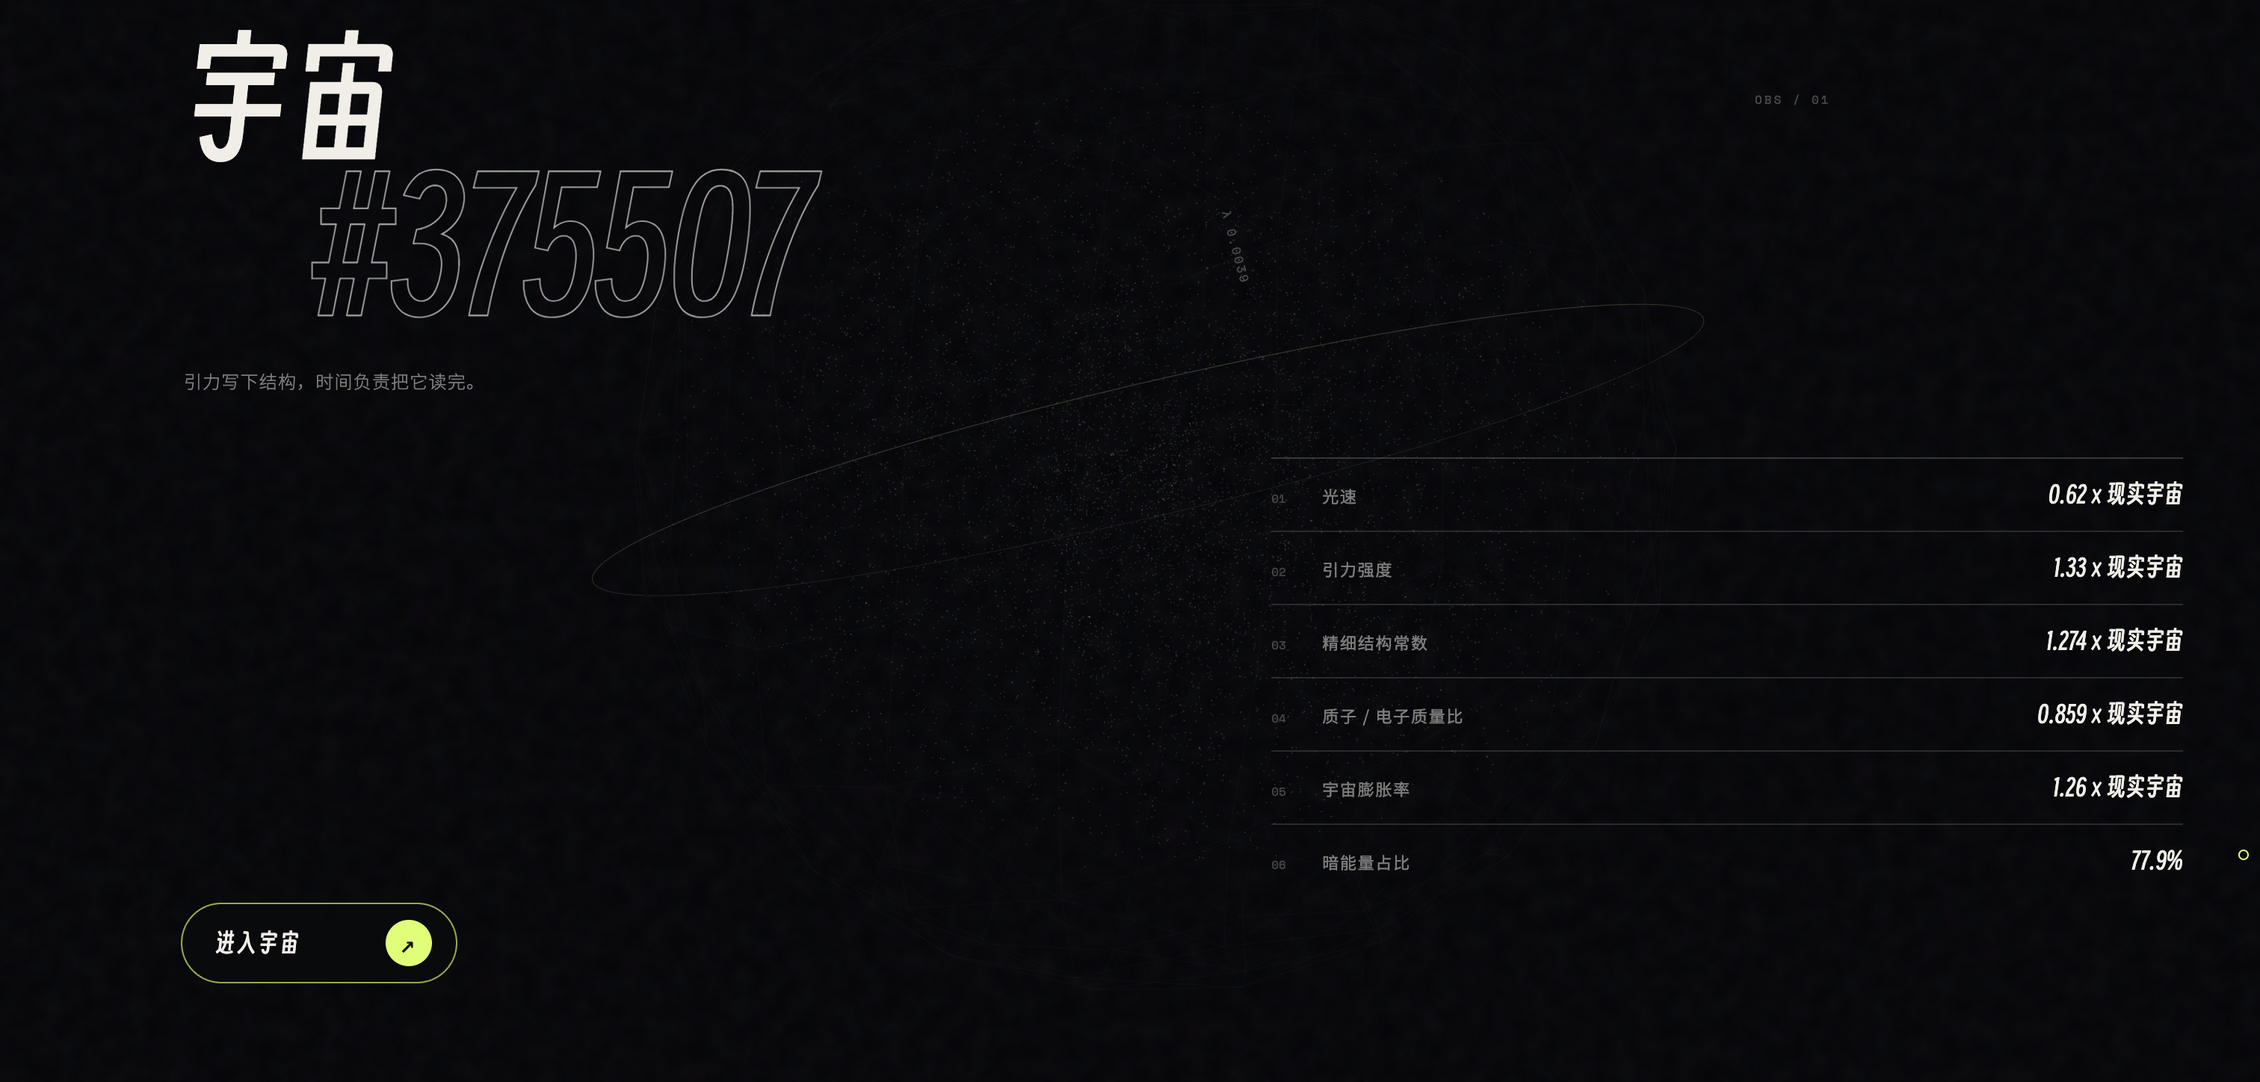
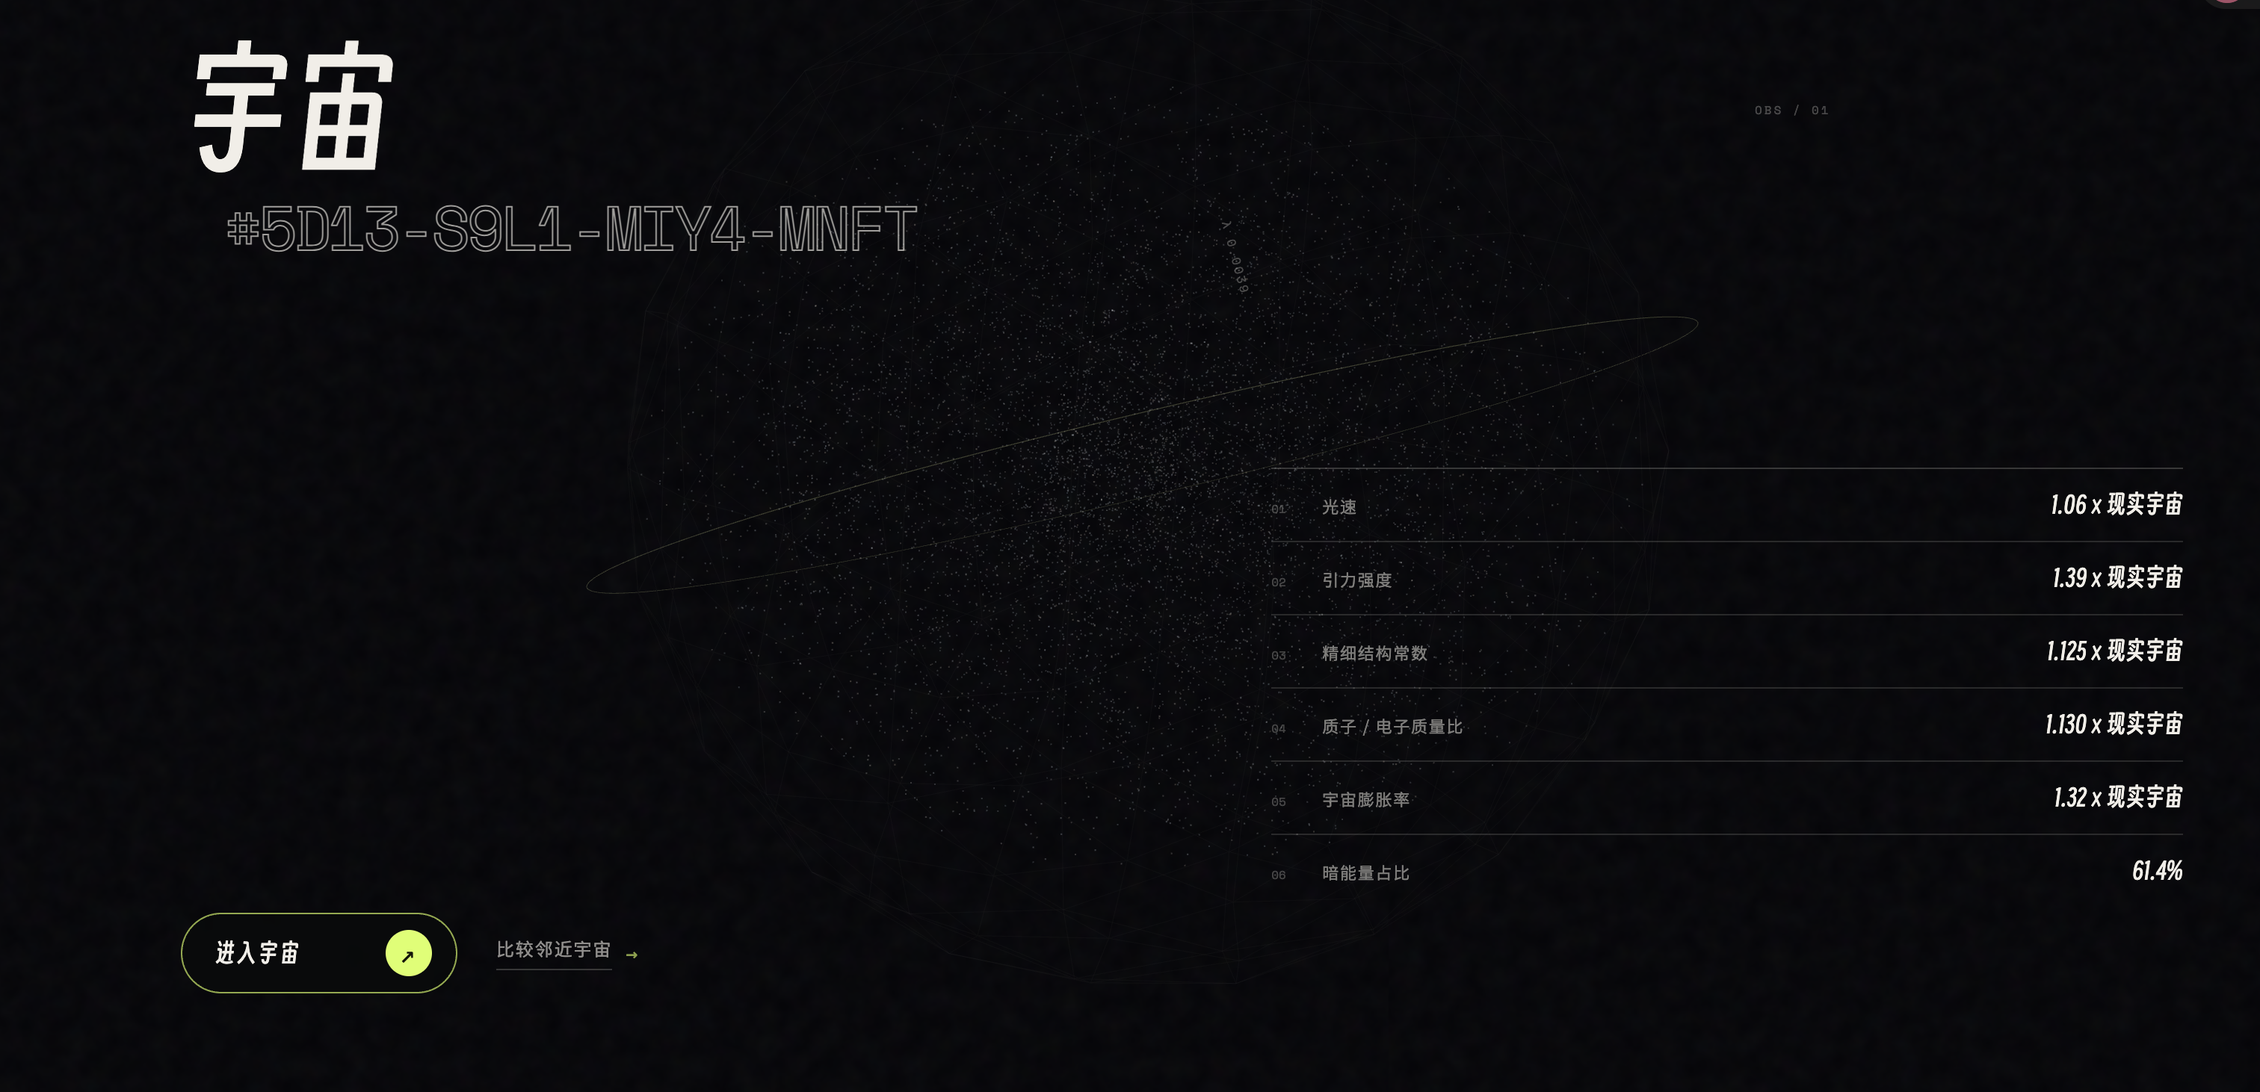
chore: 更新文档

diff --git a/dist/index.html b/dist/index.html
@@ -5,7 +5,7 @@
     <meta name="viewport" content="width=device-width, initial-scale=1.0" />
     <meta name="theme-color" content="#050508" />
     <meta name="description" content="每一次刷新，都会诞生一个独一无二的宇宙。" />
-    <title>随机宇宙发生器</title>
+    <title>random-universe</title>
     <script type="module" crossorigin src="/assets/index-g4dwoULP.js"></script>
     <link rel="modulepreload" crossorigin href="/assets/three-core-DmuWkeyr.js">
     <link rel="modulepreload" crossorigin href="/assets/technology-tree-CImIBHa4.js">
@@ -22,9 +22,9 @@
     <div class="grain" aria-hidden="true"></div>
 
     <header class="site-header">
-      <a class="brand" href="#" aria-label="随机宇宙发生器首页">
+      <a class="brand" href="#" aria-label="random-universe 首页">
         <span class="brand-mark">R<span>U</span></span>
-        <span class="brand-name">随机宇宙<br />发生器</span>
+        <span class="brand-name">random-universe</span>
       </a>
 
       <div class="system-state">

diff --git a/index.html b/index.html
@@ -5,7 +5,7 @@
     <meta name="viewport" content="width=device-width, initial-scale=1.0" />
     <meta name="theme-color" content="#050508" />
     <meta name="description" content="每一次刷新，都会诞生一个独一无二的宇宙。" />
-    <title>随机宇宙发生器</title>
+    <title>random-universe</title>
   </head>
   <body>
     <canvas
@@ -18,9 +18,9 @@
     <div class="grain" aria-hidden="true"></div>
 
     <header class="site-header">
-      <a class="brand" href="#" aria-label="随机宇宙发生器首页">
+      <a class="brand" href="#" aria-label="random-universe 首页">
         <span class="brand-mark">R<span>U</span></span>
-        <span class="brand-name">随机宇宙<br />发生器</span>
+        <span class="brand-name">random-universe</span>
       </a>
 
       <div class="system-state">

diff --git a/README.md b/README.md
@@ -1,6 +1,6 @@
 # 随机宇宙发生器
 
-一个运行在浏览器中的交互式宇宙生成与演化模拟器。输入一个 16 位种子，程序会生成一套相互关联的物理参数、一种星系形态、一段从炽热大爆炸到远未来结局的宇宙史，以及在其中诞生、扩张、结盟、冲突和消亡的文明。
+一个运行在浏览器中的交互式宇宙生成与演化模拟器。每个宇宙由一个 16 位种子确定；程序会据此生成一套相互关联的物理参数、一种星系形态、一段从炽热大爆炸到远未来结局的宇宙史，以及在其中诞生、扩张、结盟、冲突和消亡的文明。
 
 ![随机宇宙发生器的创世界面](readme-photo/001.png)
 
@@ -26,7 +26,7 @@
 - **条件宇宙结局**：宇宙可能走向渐近热寂、大撕裂、大坍缩，或被更早发生的真空衰变覆盖。
 - **15 组天体事件家族**：每类事件都有种子化参数模型、发生次数、空间范围、残骸和文明后果，而不只是固定动画。
 - **文明演化**：5–15 个初始文明样本在 720 个宜居节点上经历生物圈演化、殖民、接触、过滤器、迁徙、巨型工程、考古、冲突和衰亡，并可能产生分裂继承者、提升物种、相对论迟归者、跨星系殖民地或黑洞能源文明。
-- **文明编年史与观测者模式**：点击任意文明可查看其完整因果事件链、生命演化与能源等级；切换到该文明的视角后，只显示已经进入其真实空间光锥的信息。
+- **文明编年史与观测者模式**：点击任意文明可查看其完整因果事件链、生命演化与能源等级；切换到该文明的视角后，尚未进入其空间光锥的事件会被灰化并禁止交互，播报与观测数据则按实际信号延迟更新。
 - **文明内部模型、经济与技术树**：人口、物质、能源、算力、生物承载力、物流、治理、科研和稳定度共同演化；技术按前置条件从行星工业推进到宇宙逃逸，并支付资源与稳定成本。
 - **局部星系群**：每个种子生成 4–6 个确定性伴星系；成功的跨星系迁徙会在三维地图上建立真实目标、外域人口和可见航线。
 - **观测不确定性与因果图**：编年史同时展示模拟真值、文明实际收到的延迟信号和玩家外推区间；事件链可在缩放、拖动的节点图中浏览并跳转。
@@ -44,6 +44,58 @@
 ### 文明扩张与阵营关系
 
 ![恒星时代中的文明疆域与阵营面板](readme-photo/003.png)
+
+### 文明事件图鉴
+
+下面的事件画面来自时间轴中的文明演化层。除“复杂生物圈形成”采用天体生物学约化模型外，其余事件均属于用于探索文明选择与长期后果的科幻假设；同一事件的最终结果会随种子、文明状态和技术前置条件改变。
+
+#### 母宇宙逃逸工程
+
+![母宇宙逃逸工程形成的双向光锥结构](readme-photo/planet-001.png)
+
+双向线框光锥代表文明试图越过母宇宙因果边界。只有完成黑洞采能等前置技术的文明，才可能尝试人造婴儿宇宙、真空工程、时空捷径或因果闭环计算；成功后，母宇宙只能记录该文明从可观测范围中消失，失败则会造成长期资源赤字、技术倒退与社会凝聚力下降。
+
+#### 恒星巨构工程
+
+![恒星巨构工程环绕恒星展开多层采能结构](readme-photo/planet-002.png)
+
+多层环状结构表现分布式恒星采能群逐步包围母恒星。稳定运行时，文明获得恒星尺度能源，疆域恢复与防御能力随之增强；若轨道控制失稳，采能单元会发生碎片级联并波及多个恒星域。
+
+#### 知识方舟封存
+
+![知识方舟以多面体档案核心保存文明资料](readme-photo/planet-003.png)
+
+发光多面体是分散式档案网络的视觉化身，其中封存生物谱系、工程知识与历史记录。方舟不会直接阻止文明衰亡，但能在疆域完全丧失后、且恒星能源窗口仍然开放时，提供一次降级复兴的机会。
+
+#### 行星地球化工程
+
+![行星地球化工程重塑大气、海洋与生物圈](readme-photo/planet-004.png)
+
+绿色线框行星与扩散中的大气光晕表示持续多个世代的环境改造。工程成功会建立自维持生物圈，提高宜居前沿、基础设施和人口承载力；若生态循环进入不可逆失衡，边境殖民地会受损并被迫撤离。
+
+#### 相对论殖民分化
+
+![相对论远征航迹在恒星间形成时间分叉](readme-photo/planet-005.png)
+
+分离的远征航迹象征高速舰队与母文明之间不断扩大的时间差。远征队归来时，舰上社会已经经历独立历史，并作为“迟归者”继承部分恒星域；它与母文明保留共同起源，却通常维持疏远而中立的关系。
+
+#### 复杂生物圈形成
+
+![复杂生物圈从多层生态阶段逐步形成](readme-photo/planet-006.png)
+
+层层展开的球状网络对应“原始生命—生态扩张—复杂多细胞生命—技术物种”的演化链，部分种子还会插入雪球期、大灭绝、海洋酸化或恒星耀斑期等挫折。它是一条可回放的母世界生命史，用于连接宇宙条件与文明诞生，不代表对现实生命演化的精确预测。
+
+#### 先驱遗迹唤醒
+
+![先驱遗迹以休眠的几何结构悬浮在恒星域中](readme-photo/planet-007.png)
+
+不规则几何体表示早于当前文明纪元的休眠结构。成功解码可带来跨代工程技术跃迁；若触发遗迹的防御协议，解码站与邻近航路将受损，文明的外部可见度也可能因此上升。
+
+#### 数字意识迁移
+
+![数字意识迁移进入由立方体与内层晶格组成的计算基质](readme-photo/planet-008.png)
+
+外层立方体与内层晶格表现承载人口的分布式计算基质。稳定迁移能形成可复制、可迁移的数字心智，提高辐射韧性、扩张能力和晚期能源效率；若无法解决副本权利与身份一致性，社会会陷入持续的人格分叉与网络污染。
 
 ## 一、仿真器：模拟对象与公式
 
@@ -244,7 +296,7 @@ Vnegative(a) = 0.22 ΩDE (a / aturn)^2.35
 | 扩张率 | `U(0.72,1.36)` | 决定每步殖民前沿尝试数 |
 | 韧性 | `U(0.68,1.32)` | 提高疆域恢复速度，降低灾变摧毁率 |
 
-行为参数之外，每个时间单位还会更新六项内部状态：人口受承载力与资源供给约束；资源随疆域、地球化、人口消耗和战争压力变化；能源由技术与巨构提供；治理受合作倾向、凝聚力和冲突影响；科研由技术底座、能源与先驱知识推动；稳定度综合资源、治理、能源、凝聚力、战争和信息污染。内部状态会反过来影响扩张能力、技术增长与长期生存，而不再只是文明条目的展示数字。
+行为参数之外，每个时间单位还会更新九项对外展示的内部状态：人口受生物承载力与资源供给约束；物质随疆域产出、人口消耗和工程支出变化；能源由技术、巨构与黑洞设施提供；算力受技术和数字基质影响；生物承载力会随地球化与生态损伤变化；物流综合物质、能源、算力、治理和稳定度；治理受合作倾向、凝聚力和冲突影响；科研由技术底座、能源与先驱知识推动；稳定度综合资源、治理、能源、凝聚力、战争和信息污染。模拟还会由物质、承载力和物流推导综合资源值，这些状态共同影响扩张能力、技术增长与长期生存。
 
 技术路线按前置关系推进：
 
@@ -263,14 +315,20 @@ affinity = 0.28(coopA + coopB) - 0.24(aggrA + aggrB) + U(-0.16,0.16)
 相邻接触后，分数越过 `0.30` 形成友好关系，低于 `-0.26` 进入冲突；关系也会因失去接触而衰减。友好网络增加疆域恢复和扩张能力，敌对文明则比较：
 
 ```text
-attack  = sourceStrength × (0.72 + 0.76 × aggression + U(0,0.35))
-defense = targetStrength × (0.84 + 0.52 × resilience + U(0,0.28))
+attack = sourceStrength
+       × (0.72 + 0.76 × aggression + U(0,0.35))
+       × (0.72 + 0.18 × energy + 0.10 × research)
+
+defense = targetStrength
+        × (0.84 + 0.52 × resilience + U(0,0.28))
+        × (0.70 + 0.12 × resources + 0.08 × governance + 0.10 × stability)
 ```
 
 事件按真实空间距离和喷流方向命中节点。节点被摧毁的概率为：
 
 ```text
-Pdestroy = clamp(0.62 × severity / max(0.65, resilience), 0, 0.9)
+Rsubstrate = 1.3（已完成稳定数字迁移）或 1.0（其他文明）
+Pdestroy  = clamp(0.62 × severity / max(0.65, resilience × Rsubstrate), 0, 0.9)
 ```
 
 宿主恒星彻底解体、被潮汐撕碎或落入黑洞时，节点永久失效；普通辐射灾害则降低节点强度，并可在事件定义的恢复窗口中部分恢复。恒星能源枯竭或有限时间宇宙结局开始后，普通物质文明逐步衰亡。知识方舟可以在能源窗口仍开放时完成一次降级复兴。每个初始文明另有 1% 概率在诞生后 130–205 个时间轴单位发生“高维转化”，这是明确的科幻设定。
@@ -394,11 +452,11 @@ Rcivilization = Rciv-profile × rangeScale × √c*
 | **信号暴露后续** | 验证、威慑或全域静默 | 由早期接触事件派生长期制度后果，形成因果事件链 |
 | **费米情景** | 大过滤器、静默博弈、稀有生物圈、观察者隔离或短暂窗口 | 每个种子选择一个主导解释，影响文明叙事与可见度 |
 | **星系近掠后续** | 潮汐尾、流浪恒星、形成熄灭或流浪黑洞 | 把单次近掠扩展为可持续数个阶段的星系演化链 |
-| **跨星系迁徙** | 星系桥殖民地或星系际流浪社会 | 把文明扩张范围推进到母星系引力边界之外，并改变凝聚力与可见度 |
+| **跨星系迁徙** | 抵达、途中分化、失联或返航 | 消耗母文明的人口、物质与能源；成功后在真实伴星系建立外域人口和可见航线 |
 | **黑洞能源文明** | 吸积盘采能、旋转能提取或霍金辐射收集 | 建立第三阶能源基础设施；失稳时造成大范围疆域损伤 |
-| **母宇宙逃逸工程** | 人造婴儿宇宙、真空工程、时空捷径或因果闭环计算 | 成功时进入母宇宙外存续状态，失败时付出技术与疆域代价 |
+| **母宇宙逃逸工程** | 人造婴儿宇宙、真空工程、时空捷径或因果闭环计算 | 成功时进入母宇宙外存续状态；失败时降低技术与凝聚力，并留下长期资源赤字 |
 
-文明快照记录人口、物质、能源、算力、生物承载力、物流吞吐、治理、科研、稳定度、技术树、可见度、凝聚力、机器自治、方舟、巨构、提升、地球化、数字载体、先驱知识、信息感染、相对论分支、过滤器、迁徙、恒星工程、跨星系定居、外域人口、黑洞能源、母宇宙逃逸、文明形态、能源等级、遗产、信号延迟和因果响应状态。所有分支在宇宙生成时预计算，因此来回拖动时间轴仍会得到相同历史。
+文明快照记录人口、物质、能源、算力、生物承载力、物流吞吐、治理、科研、稳定度、技术树、可见度、凝聚力、机器自治、方舟、巨构、提升、地球化、数字载体、先驱知识、信息感染、相对论分支、过滤器、迁徙、恒星工程、跨星系定居、外域人口、黑洞能源、母宇宙逃逸、文明形态、能源等级、遗产、信号延迟和因果响应状态。进入探索器后，这些分支会在渐进加载期间按种子确定性预计算，文明推演优先交给 Web Worker；因此后台加载完成后来回拖动时间轴，仍会得到相同历史。
 
 事件可通过 `sourceEventId` 和 `causalRootId` 串联。例如“首次信号 → 光锥幽灵信号 → 验证/威慑/静默制度”，以及“伴星系近掠 → 潮汐尾/形成熄灭/流浪黑洞”都共享同一因果根。时间轴正向播放或反复拖动时，整条链都会得到相同结果。
 
@@ -456,12 +514,15 @@ Rcivilization = Rciv-profile × rangeScale × √c*
 | 点击“进入宇宙” | 默认进入全屏，加载当前种子的星系与时间轴；浏览器拒绝全屏时仍可正常探索 |
 | 拖动 / 滚轮 | 旋转视角 / 缩放星系 |
 | 播放按钮 | 播放或暂停宇宙时间 |
-| `1×`、`10×`、`100×` | 调整时间流速 |
-| 拖动时间轴 | 跳转并回看任意纪元 |
-| 点击彩色事件标记 | 跳转到对应事件并查看实际结果 |
+| 展开倍率控件并拖动滑杆 | 在 `0.01×–100×` 之间连续调整时间流速；`0.1×`、`1×`、`10×` 为快捷吸附点 |
+| 拖动时间轴 | 跳转并回看任意纪元；开启事件吸附后会自动对齐附近事件 |
+| 在时间轴上滚轮 / 双击 | 围绕指针位置缩放时间轴 / 恢复完整时间范围 |
+| 使用事件筛选按钮 | 在全部事件、天体事件、文明事件和科幻假设之间切换 |
+| 点击彩色事件标记 | 单个事件会直接跳转；聚合标记会先展开局部事件详情 |
+| 点击飞船按钮 | 显示并凸显星系内物流船与跨星系舰队 |
 | 点击“种群” | 展开文明、阵营和外交关系 |
 | 点击文明条目 | 打开文明编年史并跳转其因果事件 |
-| 点击“以此文明观察” | 进入有限光锥视角，隐藏尚未抵达该文明的信息 |
+| 点击“以此文明观察” | 进入有限光锥视角；光锥外事件会被标为不可观测，档案改为显示延迟观测与推测区间 |
 | 点击星系名称，再选择“查看局部星系群” | 拉远到伴星系地图，查看跨星系人口与航线 |
 | 在星系菜单中选择“全屏模式” | 进入或退出浏览器全屏显示 |
 | 在星系菜单中选择“沉浸式模式” | 仅展示星系；停止操作后自动隐藏界面，移动指针或点击画面可暂时唤回 |
@@ -469,8 +530,9 @@ Rcivilization = Rciv-profile × rangeScale × √c*
 | 点击“比较邻近宇宙” | 对照当前种子与三个确定性变体 |
 | 保存时刻 / 复制链接 / 导出历史 | 在本机收藏观察点、分享当前种子与时间、导出文明 JSON |
 | 点击恒星 | 在可观测阶段查看恒星样本信息 |
-| 星图获得焦点后按 `←` / `→`、`Enter` | 切换可见恒星并读取详情 |
-| 按 `Esc` | 依次收起比较面板、文明编年史、文明面板，或返回创世界面 |
+| 星图获得焦点后按 `←` / `→`、`Home` / `End` | 切换相邻恒星，或跳到首个 / 最后一个可见恒星 |
+| 星图获得焦点后按 `Enter` 或空格 | 打开当前键盘选中恒星的详情 |
+| 按 `Esc` | 依次收起当前打开的菜单、沉浸模式、事件筛选或详情、文明编年史和文明面板，最后返回创世界面 |
 
 界面支持移动端布局，并尊重系统的“减少动态效果”设置。
 
@@ -525,8 +587,12 @@ random-universe/
 │   ├── simulation/
 │   │   ├── civilization.js       # 文明扩张、关系、冲突与灾变快照
 │   │   ├── civilization-events.js # 科幻文明事件目录、条件与继承文明
+│   │   ├── civilization-worker-client.js # Web Worker 调度与主线程降级
+│   │   ├── civilization-worker.js # 后台文明推演入口
 │   │   ├── technology-tree.js    # 技术前置、解锁条件与工程成本
 │   │   ├── observation.js        # 有限光锥观测、推测和误差范围
+│   │   ├── intergalactic-travel.js # 跨星系舰队状态与航行时间
+│   │   ├── ship-navigation.js    # 舰船路径、避障和航线分配
 │   │   ├── transient-events.js   # 15 组瞬变事件物理参数模型
 │   │   ├── event-occurrence.js   # 泊松重复事件调度
 │   │   ├── black-hole-gravity.js # 星系势与双黑洞近场响应
